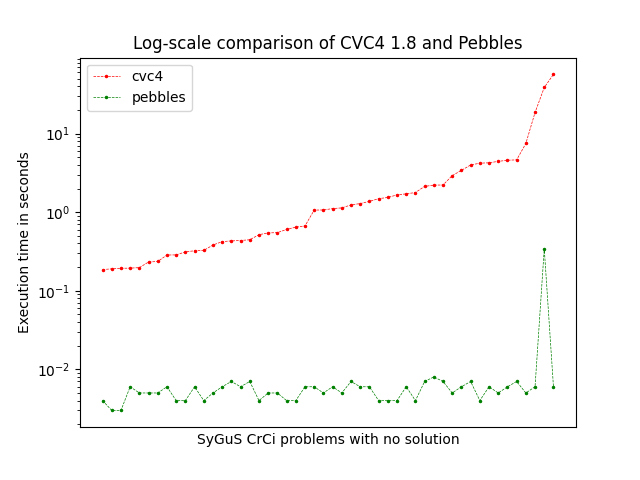
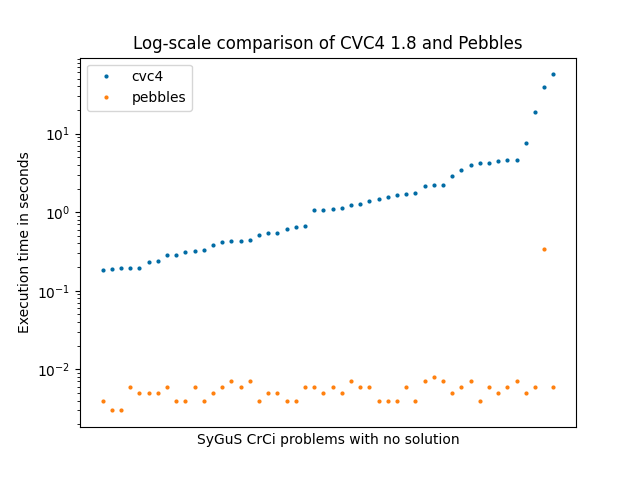
Updating graphs to be colorblind friendly

diff --git a/synth/gen_plots.py b/synth/gen_plots.py
@@ -1,5 +1,6 @@
 import numpy as np
 import matplotlib.pyplot as plt
+plt.style.use('tableau-colorblind10')
 
 with open('comparison_cvc4_pebbles.txt') as f:
     lines = f.readlines()
@@ -7,7 +8,7 @@ with open('comparison_cvc4_pebbles.txt') as f:
     cvc4_times = [float(line.split()[0]) for line in lines]
     pebbles_times = [float(line.split()[1]) for line in lines]
 
-with open('multithread.txt') as f:
+with open('multithread_2.txt') as f:
     lines = f.readlines()
     pebbles_times_mt = [float(line) for line in lines]
 
@@ -21,15 +22,15 @@ with open('found.txt') as f:
 
 with open('singlethread10.txt') as f:
     lines = f.readlines()
-    pebbles_times_st_random10 = [sum([float(line) for line in lines])] * 10
+    pebbles_times_st_random10 = [sum([float(line) for line in lines])] * 16
 
 with open('multithread10.txt') as f:
     lines = f.readlines()
-    pebbles_times_mt_random10 = [sum([float(line) for line in lines])] * 10
+    pebbles_times_mt_random10 = [sum([float(line) for line in lines])] * 16
 
 with open('gpu_version10.txt') as f:
     lines = f.readlines()
-    pebbles_times_gpu_random10 = [sum([float(line) for line in lines if not line.startswith("Synthesizer")])] * 10
+    pebbles_times_gpu_random10 = [sum([float(line) for line in lines if not line.startswith("Synthesizer")])] * 16
 
 with open('singlethread100.txt') as f:
     lines = f.readlines()
@@ -43,11 +44,11 @@ with open('gpu100.txt') as f:
     lines = f.readlines()
     pebbles_times_gpu_random = [float(line) for line in lines if not line.startswith("Synthesizer")]
 
-with open('compareNumThreads10.txt') as f:
+with open('compareNumThreads10_2.txt') as f:
     lines = f.readlines()
     compare_thread_count_times = [float(line) for line in lines]
 threadTimes = []
-for i in range(10):
+for i in range(16):
     threadTimes.append(sum(compare_thread_count_times[i*10:(i+1)*10]))
 
 # Instead of directly sorting, get an array of what the indices should be to sort cvc4_times
@@ -69,61 +70,61 @@ pebbles_times_solved = pebbles_times[has_solution]
 cvc4_times_no_solution = cvc4_times[np.invert(has_solution)]
 pebbles_times_no_solution = pebbles_times[np.invert(has_solution)]
 
-# plt.yscale('log')
-# plt.plot(cvc4_times_solved,'ro--',linewidth=0.5, markersize=1.5, label="cvc4")
-# plt.plot(pebbles_times_solved,'go--',linewidth=0.5, markersize=1.5, label="pebbles")
-# plt.ylabel("Execution time in seconds")
-# plt.xlabel("SyGuS CrCi problems with solutions")
-# plt.title("Log-scale comparison of CVC4 1.8 and Pebbles")
-# plt.xticks([], []) # turn off x-ticks
-# leg = plt.legend(loc='upper left')
-# plt.savefig('cvc4_versus_pebbles_solved.png')
-# plt.show()
-
-# plt.yscale('log')
-# plt.plot(cvc4_times_no_solution,'ro--',linewidth=0.5, markersize=1.5, label="cvc4")
-# plt.plot(pebbles_times_no_solution,'go--',linewidth=0.5, markersize=1.5, label="pebbles")
-# plt.ylabel("Execution time in seconds")
-# plt.xlabel("SyGuS CrCi problems with no solution")
-# plt.title("Log-scale comparison of CVC4 1.8 and Pebbles")
-# plt.xticks([], []) # turn off x-ticks
-# leg = plt.legend(loc='upper left')
-# plt.savefig('cvc4_versus_pebbles_unsolved.png')
-# plt.show()
-
-# plt.yscale('log')
-# plt.plot(pebbles_times_mt,'ro--',linewidth=0.5, markersize=1.5, label="multithread")
-# plt.plot(pebbles_times,'go--',linewidth=0.5, markersize=1.5, label="singlethread")
-# plt.plot(pebbles_times_gpu,'bo--',linewidth=0.5, markersize=1.5, label="gpu")
-# plt.ylabel("Execution time in seconds")
-# plt.xlabel("SyGuS CrCi problems with solutions")
-# plt.title("Comparison of Pebbles with single thread versus multithread")
-# plt.xticks([], []) # turn off x-ticks
-# leg = plt.legend(loc='upper left')
-# plt.savefig('single_versus_multi.png')
-# plt.show()
-
-# plt.yscale('log')
-# plt.plot(pebbles_times_mt_random,'ro',linewidth=0.5, markersize=1.5, label="multithread")
-# plt.plot(pebbles_times_st_random,'go',linewidth=0.5, markersize=1.5, label="singlethread")
-# plt.plot(pebbles_times_gpu_random,'bo',linewidth=0.5, markersize=1.5, label="gpu")
-# plt.ylabel("Execution time in seconds")
-# plt.xlabel("Random 5 variable truth tables")
-# plt.title("Comparison of Pebbles with single thread versus multithread")
-# plt.xticks([], []) # turn off x-ticks
-# leg = plt.legend(loc='upper left')
-# plt.savefig('single_versus_multi_random100.png')
-# plt.show()
+plt.yscale('log')
+plt.plot(cvc4_times_solved,'o',markersize=2, label="cvc4")
+plt.plot(pebbles_times_solved,'o',markersize=2, label="pebbles")
+plt.ylabel("Execution time in seconds")
+plt.xlabel("SyGuS CrCi problems with solutions")
+plt.title("Log-scale comparison of CVC4 1.8 and Pebbles")
+plt.xticks([], []) # turn off x-ticks
+leg = plt.legend(loc='upper left')
+plt.savefig('cvc4_versus_pebbles_solved.png')
+plt.show()
 
 plt.yscale('log')
-plt.plot(pebbles_times_st_random10,'go-',linewidth=0.5, markersize=1.5, label="singlethread")
-plt.plot(pebbles_times_mt_random10,'co-',linewidth=0.5, markersize=1.5, label="multithread")
-plt.plot(pebbles_times_gpu_random10,'bo-',linewidth=0.5, markersize=1.5, label="gpu")
-plt.plot(threadTimes,'ro-',linewidth=0.5, markersize=1.5, label="multithread varying thread count")
+plt.plot(cvc4_times_no_solution,'o',markersize=2, label="cvc4")
+plt.plot(pebbles_times_no_solution,'o',markersize=2, label="pebbles")
 plt.ylabel("Execution time in seconds")
+plt.xlabel("SyGuS CrCi problems with no solution")
+plt.title("Log-scale comparison of CVC4 1.8 and Pebbles")
+plt.xticks([], []) # turn off x-ticks
+leg = plt.legend(loc='upper left')
+plt.savefig('cvc4_versus_pebbles_unsolved.png')
+plt.show()
+
+plt.yscale('log')
+plt.plot(pebbles_times,'o',markersize=2, label="singlethread")
+plt.plot(pebbles_times_mt,'o',markersize=2, label="multithread")
+plt.plot(pebbles_times_gpu,'o', markersize=2, label="gpu")
+plt.ylabel("Execution time in seconds")
+plt.xlabel("SyGuS CrCi problems")
+plt.title("Comparison of Pebbles with single thread versus multithread")
+plt.xticks([], []) # turn off x-ticks
+leg = plt.legend(loc='upper left')
+plt.savefig('single_versus_multi.png')
+plt.show()
+
+plt.yscale('log')
+plt.plot(pebbles_times_st_random,'o', markersize=2, label="singlethread")
+plt.plot(pebbles_times_mt_random,'o', markersize=2, label="multithread")
+plt.plot(pebbles_times_gpu_random,'o', markersize=2, label="gpu")
+plt.ylabel("Execution time in seconds")
+plt.xlabel("Random 5 variable truth tables")
+plt.title("Comparison of Pebbles with single thread versus multithread")
+plt.xticks([], []) # turn off x-ticks
+leg = plt.legend(loc='upper left')
+plt.savefig('single_versus_multi_random100.png')
+plt.show()
+
+plt.yscale('log')
+plt.plot(pebbles_times_st_random10,'o-',linewidth=1, markersize=2.5, label="singlethread")
+plt.plot(threadTimes,'o-',linewidth=1, markersize=2.5, label="Multithread varying thread count")
+plt.plot(pebbles_times_gpu_random10,'o-',linewidth=1, markersize=2.5, label="gpu")
+#plt.plot(pebbles_times_mt_random10,'o-',linewidth=1, markersize=2.5, label="multithread")
+plt.ylabel("Execution time in seconds (total all random benchmarks)")
 plt.xlabel("Thread count")
-plt.title("Comparison of Pebbles with different thread counts")
-plt.xticks([0,1,2,3,4,5,6,7,8,9], [1,2,3,4,5,6,7,8,9,10]) # turn off x-ticks
+plt.title("Comparison of multithread Pebbles with different thread counts")
+plt.xticks(range(16), range(1,17)) # turn off x-ticks
 leg = plt.legend(loc='upper left')
 plt.savefig('thread_count_comparison.png')
 plt.show()
